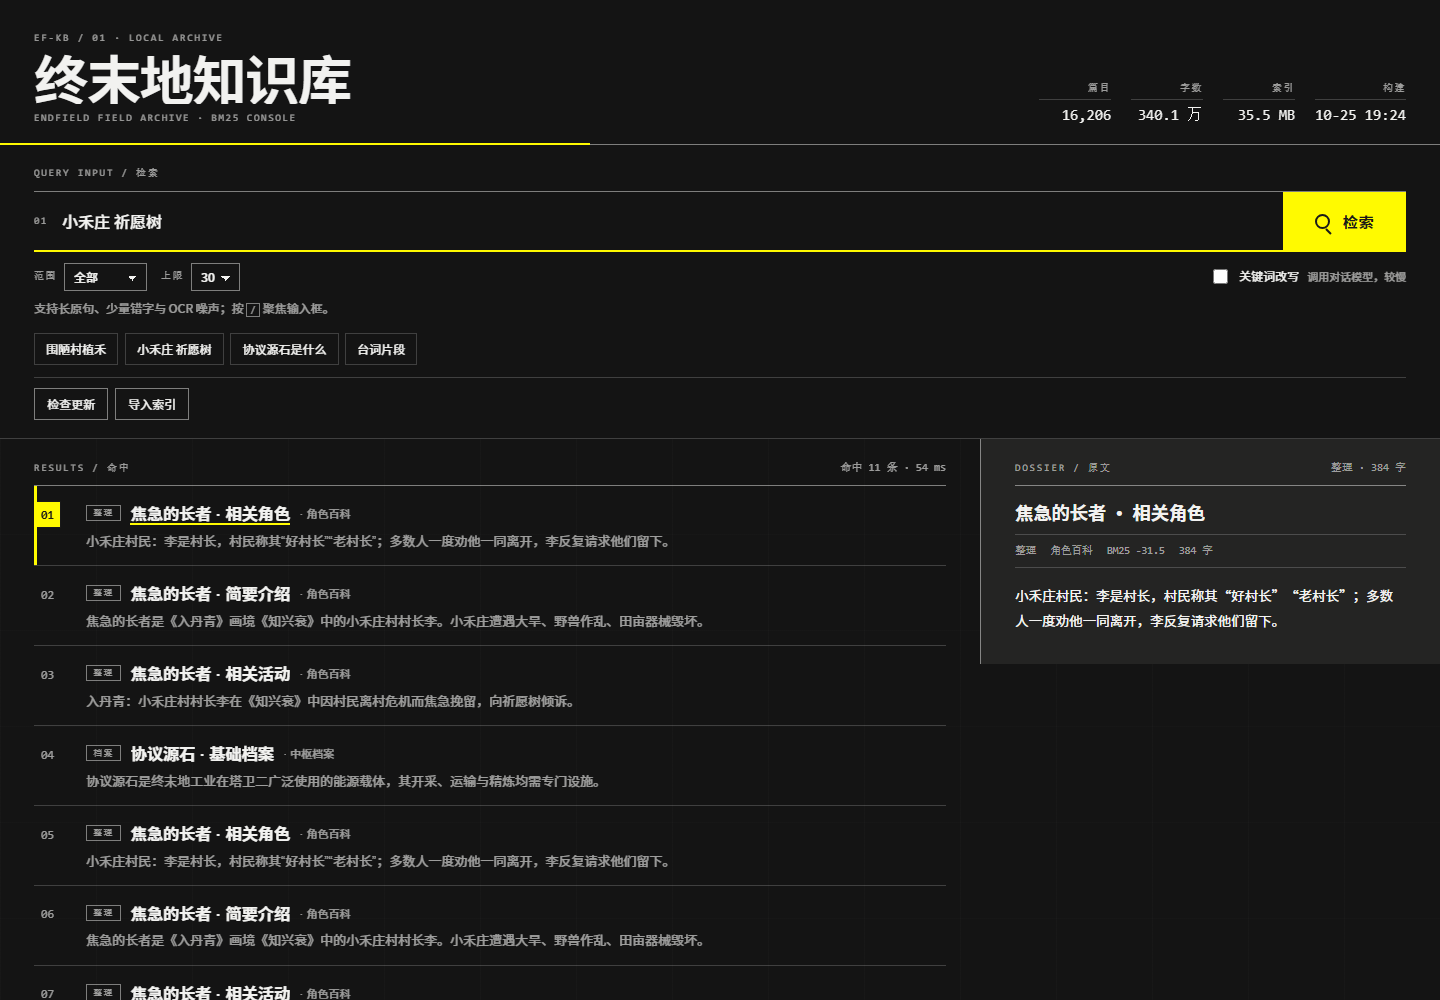
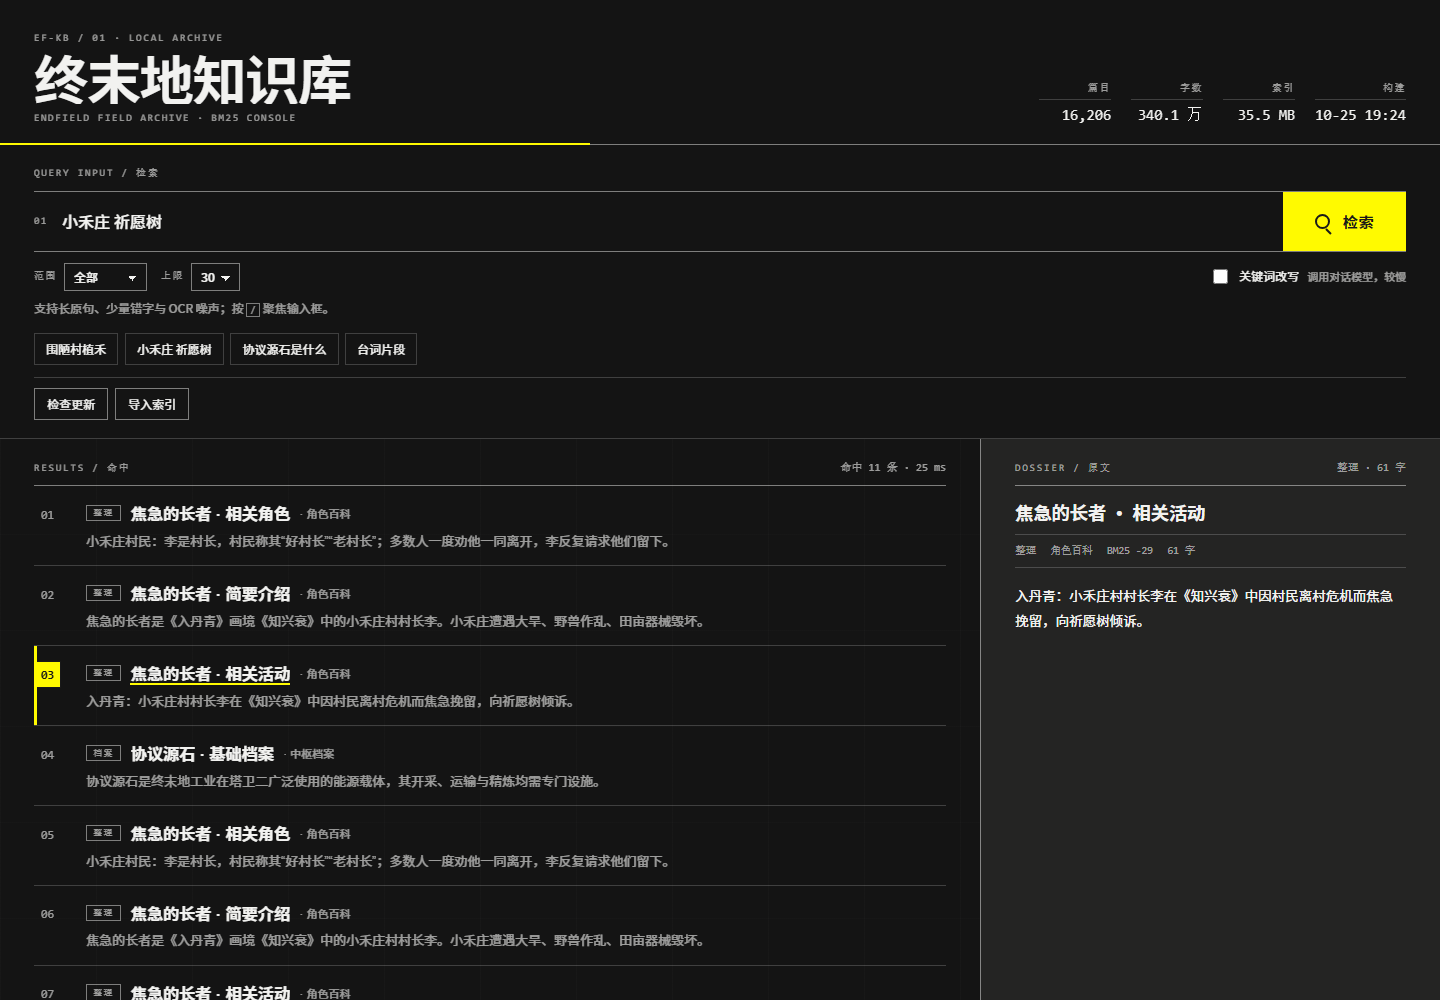
fix: detail column background spans full height

diff --git a/views/kb-console/style.css b/views/kb-console/style.css
@@ -417,7 +417,6 @@ body {
   grid-column: 1 / -1;
   display: grid;
   grid-template-columns: minmax(0, 1fr) var(--ark-detail-w);
-  align-items: start;
   background-image:
     linear-gradient(90deg, var(--ark-grid-major) 1px, transparent 1px),
     linear-gradient(0deg, var(--ark-grid-minor) 1px, transparent 1px);
